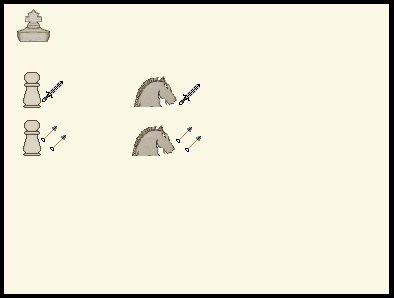
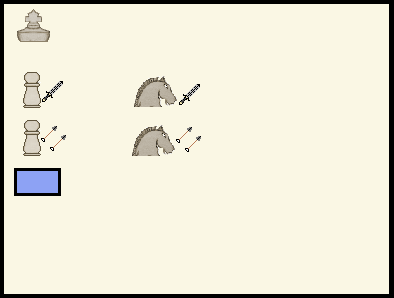
Update 0.6.0.8
- Small update battle selection menu.
- Add tick box for map option.

I will be busy during this month so less update :l

Changed region(s): [[0.0305, 0.5436, 0.1523, 0.6644]]

diff --git a/main.py b/main.py
@@ -132,6 +132,7 @@ try: # for printing error log when error exception happen
             self.sourcenamegroup = pygame.sprite.Group()
 
             self.mapoptionbox = pygame.sprite.Group()
+            self.tickbox = pygame.sprite.Group()
 
             self.lorebuttonui = pygame.sprite.Group()  # buttons for enclycopedia group
             self.lorebook = pygame.sprite.Group()  # encyclopedia object
@@ -229,6 +230,7 @@ try: # for printing error log when error exception happen
             gameprepare.Sourcename.containers = self.sourcenamegroup, self.mainui
 
             gameprepare.Mapoptionbox.containers = self.mapoptionbox
+            gameprepare.Tickbox.containers = self.tickbox
 
             gamelorebook.Lorebook.containers = self.lorebook
             gamelorebook.Subsectionlist.containers = self.lorenamelist
@@ -317,6 +319,13 @@ try: # for printing error log when error exception happen
             self.maplistbox = gameprepare.Maplistbox((SCREENRECT.width/25, SCREENRECT.height/20), imgs[0])
             self.sourcelistbox = gameprepare.Sourcelistbox((0, 0), imgs[1])
             self.mapoptionbox = gameprepare.Mapoptionbox((SCREENRECT.width, 0), imgs[1])
+
+            self.tickboxenactment = gameprepare.Tickbox((self.mapoptionbox.rect.bottomright[0] / 1.2, self.mapoptionbox.rect.bottomright[1] / 4),
+                                                        imgs[5], imgs[6], "enactment")
+            self.tickbox.add(self.tickboxenactment)
+            if self.enactment:
+                self.tickboxenactment.changetick(True)
+
             gameprepare.Mapdescription.image = imgs[2]
             gameprepare.Sourcedescription.image = imgs[3]
             gameprepare.Armystat.image = imgs[4]
@@ -493,9 +502,10 @@ try: # for printing error log when error exception happen
                     elif row[15] == 2:
                         team2commander.append(int(item))
 
-            teamtotal = [0,0]
-            trooptypelist = [[0,0,0,0],[0,0,0,0]]
+            teamtotal = [0,0] # total troop number in army
+            trooptypelist = [[0,0,0,0],[0,0,0,0]] # total number of each troop type
             leadernamelist = (team1commander, team2commander)
+            armyteamlist = (team1pos,team2pos) # for finding how many unit in each team
 
             armylooplist = (team1army, team2army)
             for index, team in enumerate(armylooplist):
@@ -509,6 +519,7 @@ try: # for printing error log when error exception happen
                         if self.gameunitstat.unitlist[unit][29] != [1,0,1]: # cavalry
                             trooptype += 2
                         trooptypelist[index][trooptype] += int(self.gameunitstat.unitlist[unit][27] * scalevalue[index])
+                trooptypelist[index].append(len(armyteamlist[index]))
 
             armylooplist = [str(troop) + " Troops" for troop in teamtotal]
             armylooplist = [self.leaderstat.leaderlist[leadernamelist[index][0]][0] + ": " + troop for index, troop in enumerate(armylooplist)]
@@ -695,7 +706,7 @@ try: # for printing error log when error exception happen
                         self.changesource([self.sourcescaletext[self.mapsource] , self.sourcetext[self.mapsource]], self.sourcescale[self.mapsource])
 
                         self.menubutton.add(*self.battlesetupbutton)
-                        self.mainui.add(*self.battlesetupbutton, self.mapoptionbox, self.sourcelistbox, self.sourcescroll, self.armystat)
+                        self.mainui.add(*self.battlesetupbutton, self.mapoptionbox, self.tickboxenactment, self.sourcelistbox, self.sourcescroll, self.armystat)
 
                 elif self.menustate == "battlemapset":
                     #v User input
@@ -720,12 +731,22 @@ try: # for printing error log when error exception happen
                                 self.changesource([self.sourcescaletext[self.mapsource] , self.sourcetext[self.mapsource]], self.sourcescale[self.mapsource])
                                 break
 
+                        for box in self.tickbox:
+                            if box.rect.collidepoint(self.mousepos):
+                                if box.tick == False:
+                                    box.changetick(True)
+                                else:
+                                    box.changetick(False)
+                                if box.option == "enactment":
+                                    self.enactment = box.tick
+
                     #^ End user input
 
                     if self.mapbackbutton.event or esc_press:
                         self.menustate = self.lastselect
                         self.mapbackbutton.event = False
-                        self.mainui.remove(*self.menubutton, self.maplistbox, self.mapoptionbox, self.sourcelistbox, self.sourcescroll, self.sourcedescription)
+                        self.mainui.remove(*self.menubutton, self.maplistbox, self.mapoptionbox, self.tickboxenactment,
+                                           self.sourcelistbox, self.sourcescroll, self.sourcedescription)
                         self.menubutton.remove(*self.menubutton)
 
                         #v Reset selected team

diff --git a/gamescript/gameprepare.py b/gamescript/gameprepare.py
@@ -244,7 +244,6 @@ class Sourcedescription(pygame.sprite.Sprite):
         else:
             self.image = self.image_original.copy()
 
-
 class Teamcoa(pygame.sprite.Sprite):
     def __init__(self, pos, image, team, name):
         import main
@@ -310,7 +309,8 @@ class Armystat(pygame.sprite.Sprite):
         self.typenumberpos = ((self.image.get_width()/6, self.image.get_height()/3), # infantry melee
                               (self.image.get_width()/6, self.image.get_height()/2), # infantry range
                               (self.image.get_width()/1.9, self.image.get_height()/3), # cav melee
-                              (self.image.get_width()/1.9, self.image.get_height()/2)) # cav range
+                              (self.image.get_width()/1.9, self.image.get_height()/2), # cav range
+                              (self.image.get_width()/6, self.image.get_height()/1.6)) # total unit
 
         self.rect = self.image.get_rect(center=pos)
 
@@ -371,18 +371,61 @@ class Mapname(pygame.sprite.Sprite):
         self.pos = pos
         self.rect = self.image.get_rect(topleft=self.pos)
 
+class Tickbox(pygame.sprite.Sprite):
+    def __init__(self, pos, image, tickimage, option):
+        """option is in str text for identifying what kind of tickbox it is"""
+        import main
+        SCREENRECT = main.SCREENRECT
+        self.widthadjust = SCREENRECT.width / 1366
+        self.heightadjust = SCREENRECT.height / 768
+
+        self._layer = 14
+        pygame.sprite.Sprite.__init__(self, self.containers)
+
+        self.option = option
+
+        self.notickimage = image
+        self.tickimage = tickimage
+        self.tick = False
+
+        self.notickimage = pygame.transform.scale(image, (int(image.get_width() * self.widthadjust),
+                                                    int(image.get_height() * self.heightadjust)))
+        self.tickimage = pygame.transform.scale(tickimage, (int(tickimage.get_width() * self.widthadjust),
+                                                    int(tickimage.get_height() * self.heightadjust)))
+
+        self.image = self.notickimage
+
+        self.rect = self.image.get_rect(topright=pos)
+
+    def changetick(self, tick):
+        self.tick = tick
+        if self.tick:
+            self.image = self.tickimage
+        else:
+            self.image = self.notickimage
+
 class Mapoptionbox(pygame.sprite.Sprite):
     def __init__(self, pos, image):
         import main
         SCREENRECT = main.SCREENRECT
         self.widthadjust = SCREENRECT.width / 1366
         self.heightadjust = SCREENRECT.height / 768
+        self.font = pygame.font.SysFont("helvetica", int(16 * self.heightadjust))
 
         self._layer = 13
         pygame.sprite.Sprite.__init__(self, self.containers)
         self.image = pygame.transform.scale(image, (int(image.get_width() * self.widthadjust),
                                                     int(image.get_height() * self.heightadjust)))
+
+        #v enactment option text
+        textsurface = self.font.render("Enactment Mode", 1, (0, 0, 0))
+        textrect = textsurface.get_rect(midleft=(self.image.get_width()/ 3.5, self.image.get_height() / 4))
+        self.image.blit(textsurface, textrect)
+        #^ end enactment
+
         self.rect = self.image.get_rect(topright=pos)
+
+
 
 class Sourcelistbox(pygame.sprite.Sprite):
     def __init__(self, pos, image):
